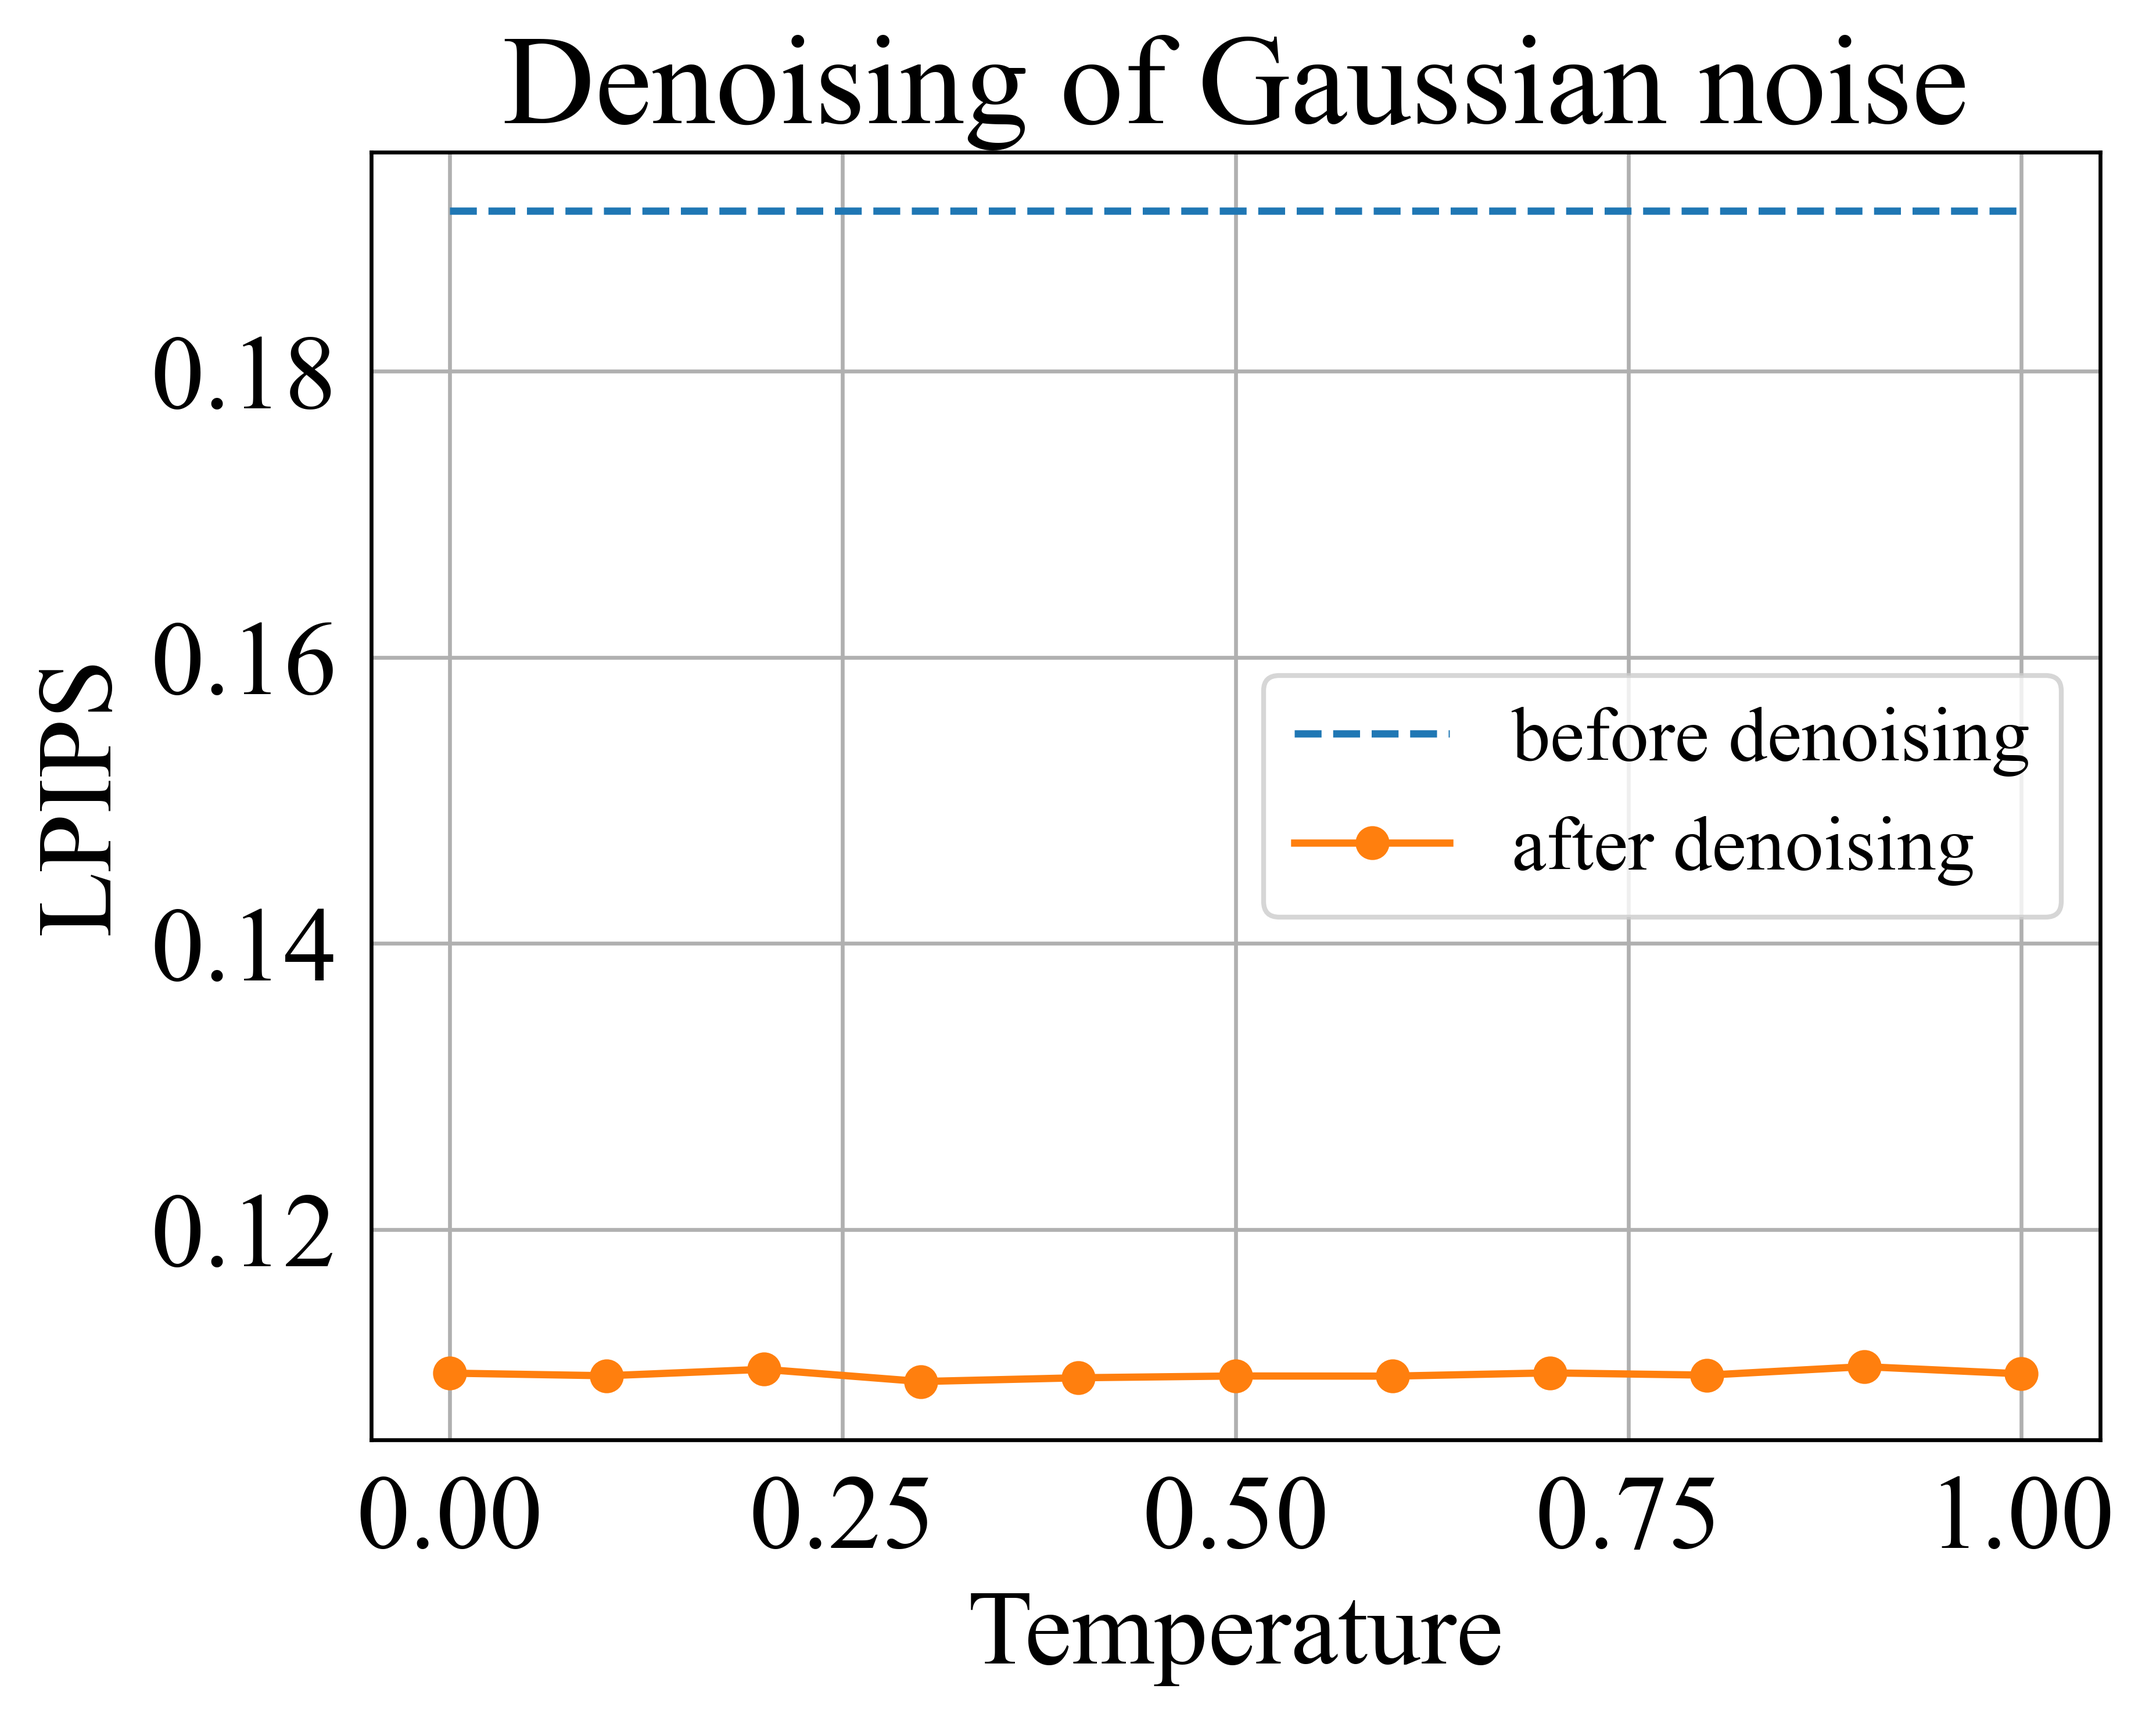
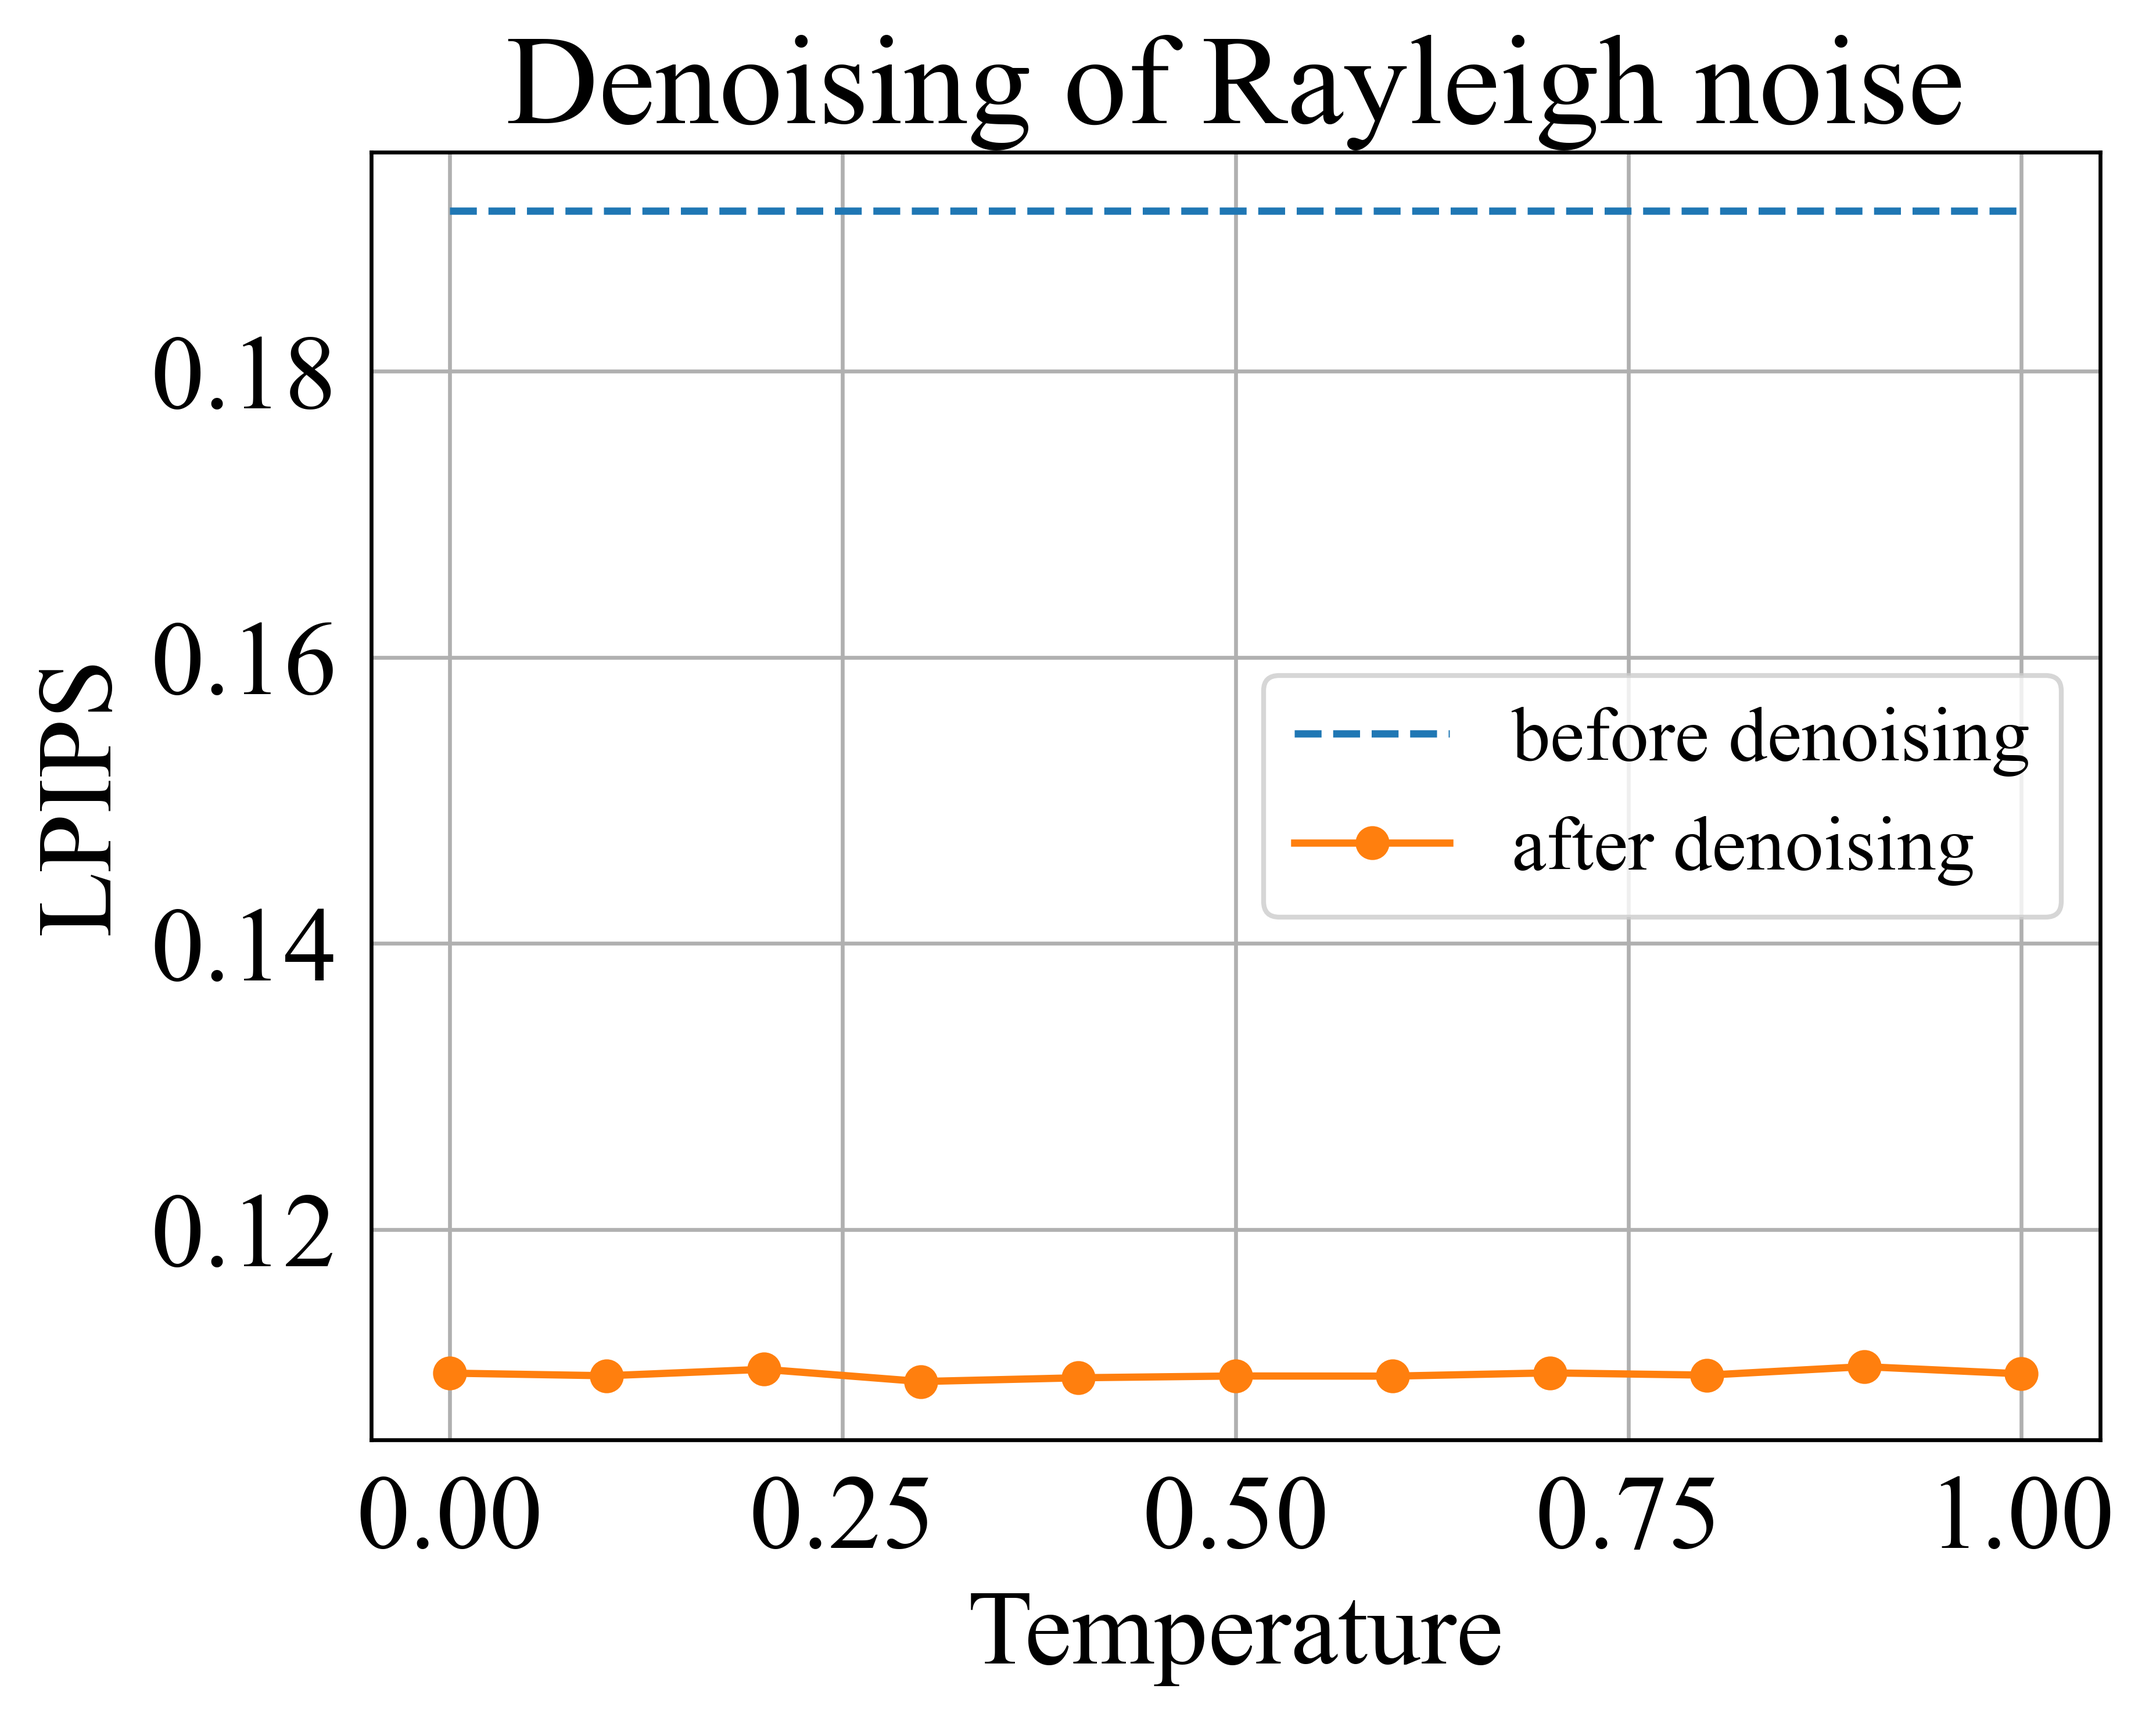
performed detailed quantative denoising analysis

Changed region(s): [[0.2176, 0.0, 0.9016, 0.0931]]

diff --git a/code/denoising_analysis.py b/code/denoising_analysis.py
@@ -262,12 +262,44 @@ def draw_curve_gaussian():
 def draw_curve_rayleigh():
     """The curves plotted herein are on real data, not test data"""
     graph_save_paths = [f'./data/validation/denoising/rayleigh_{meas}.png' for meas in ['psnr', 'ssim', 'lpips']]
-    DenoisingAnalysis.draw_curve('Denoising of Gaussian noise', './data/validation/denoising/avgs-before-rayleigh.csv',
+    DenoisingAnalysis.draw_curve('Denoising of Rayleigh noise', './data/validation/denoising/avgs-before-rayleigh.csv',
                                  './data/validation/denoising/avgs-after-rayleigh.csv',
                                  graph_save_paths)
 
+def draw_curve_gamma():
+    """The curves plotted herein are on real data, not test data"""
+    graph_save_paths = [f'./data/validation/denoising/gamma_{meas}.png' for meas in ['psnr', 'ssim', 'lpips']]
+    DenoisingAnalysis.draw_curve('Denoising of Gamma noise', './data/validation/denoising/avgs-before-gamma.csv',
+                                 './data/validation/denoising/avgs-after-gamma.csv',
+                                 graph_save_paths)
+
+def draw_curve_exp():
+    """The curves plotted herein are on real data, not test data"""
+    graph_save_paths = [f'./data/validation/denoising/exp_{meas}.png' for meas in ['psnr', 'ssim', 'lpips']]
+    DenoisingAnalysis.draw_curve('Denoising of Exponential noise', './data/validation/denoising/avgs-before-exp.csv',
+                                 './data/validation/denoising/avgs-after-exp.csv',
+                                 graph_save_paths)
+
+def draw_curve_uniform():
+    """The curves plotted herein are on real data, not test data"""
+    graph_save_paths = [f'./data/validation/denoising/uniform_{meas}.png' for meas in ['psnr', 'ssim', 'lpips']]
+    DenoisingAnalysis.draw_curve('Denoising of Uniform noise', './data/validation/denoising/avgs-before-uniform.csv',
+                                 './data/validation/denoising/avgs-after-uniform.csv',
+                                 graph_save_paths)
+
+def draw_curve_salt_pepper():
+    """The curves plotted herein are on real data, not test data"""
+    graph_save_paths = [f'./data/validation/denoising/salt_pepper_{meas}.png' for meas in ['psnr', 'ssim', 'lpips']]
+    DenoisingAnalysis.draw_curve('Denoising of Salt and Pepper noise', './data/validation/denoising/avgs-before-salt_pepper.csv',
+                                 './data/validation/denoising/avgs-after-salt_pepper.csv',
+                                 graph_save_paths)
 
 
 if __name__ == '__main__':
-    runDenoisingAnalysis()
-    #draw_curve_rayleigh()
+    #runDenoisingAnalysis()
+    draw_curve_gaussian()
+    draw_curve_rayleigh()
+    draw_curve_exp()
+    draw_curve_gamma()
+    draw_curve_salt_pepper()
+    draw_curve_uniform()
